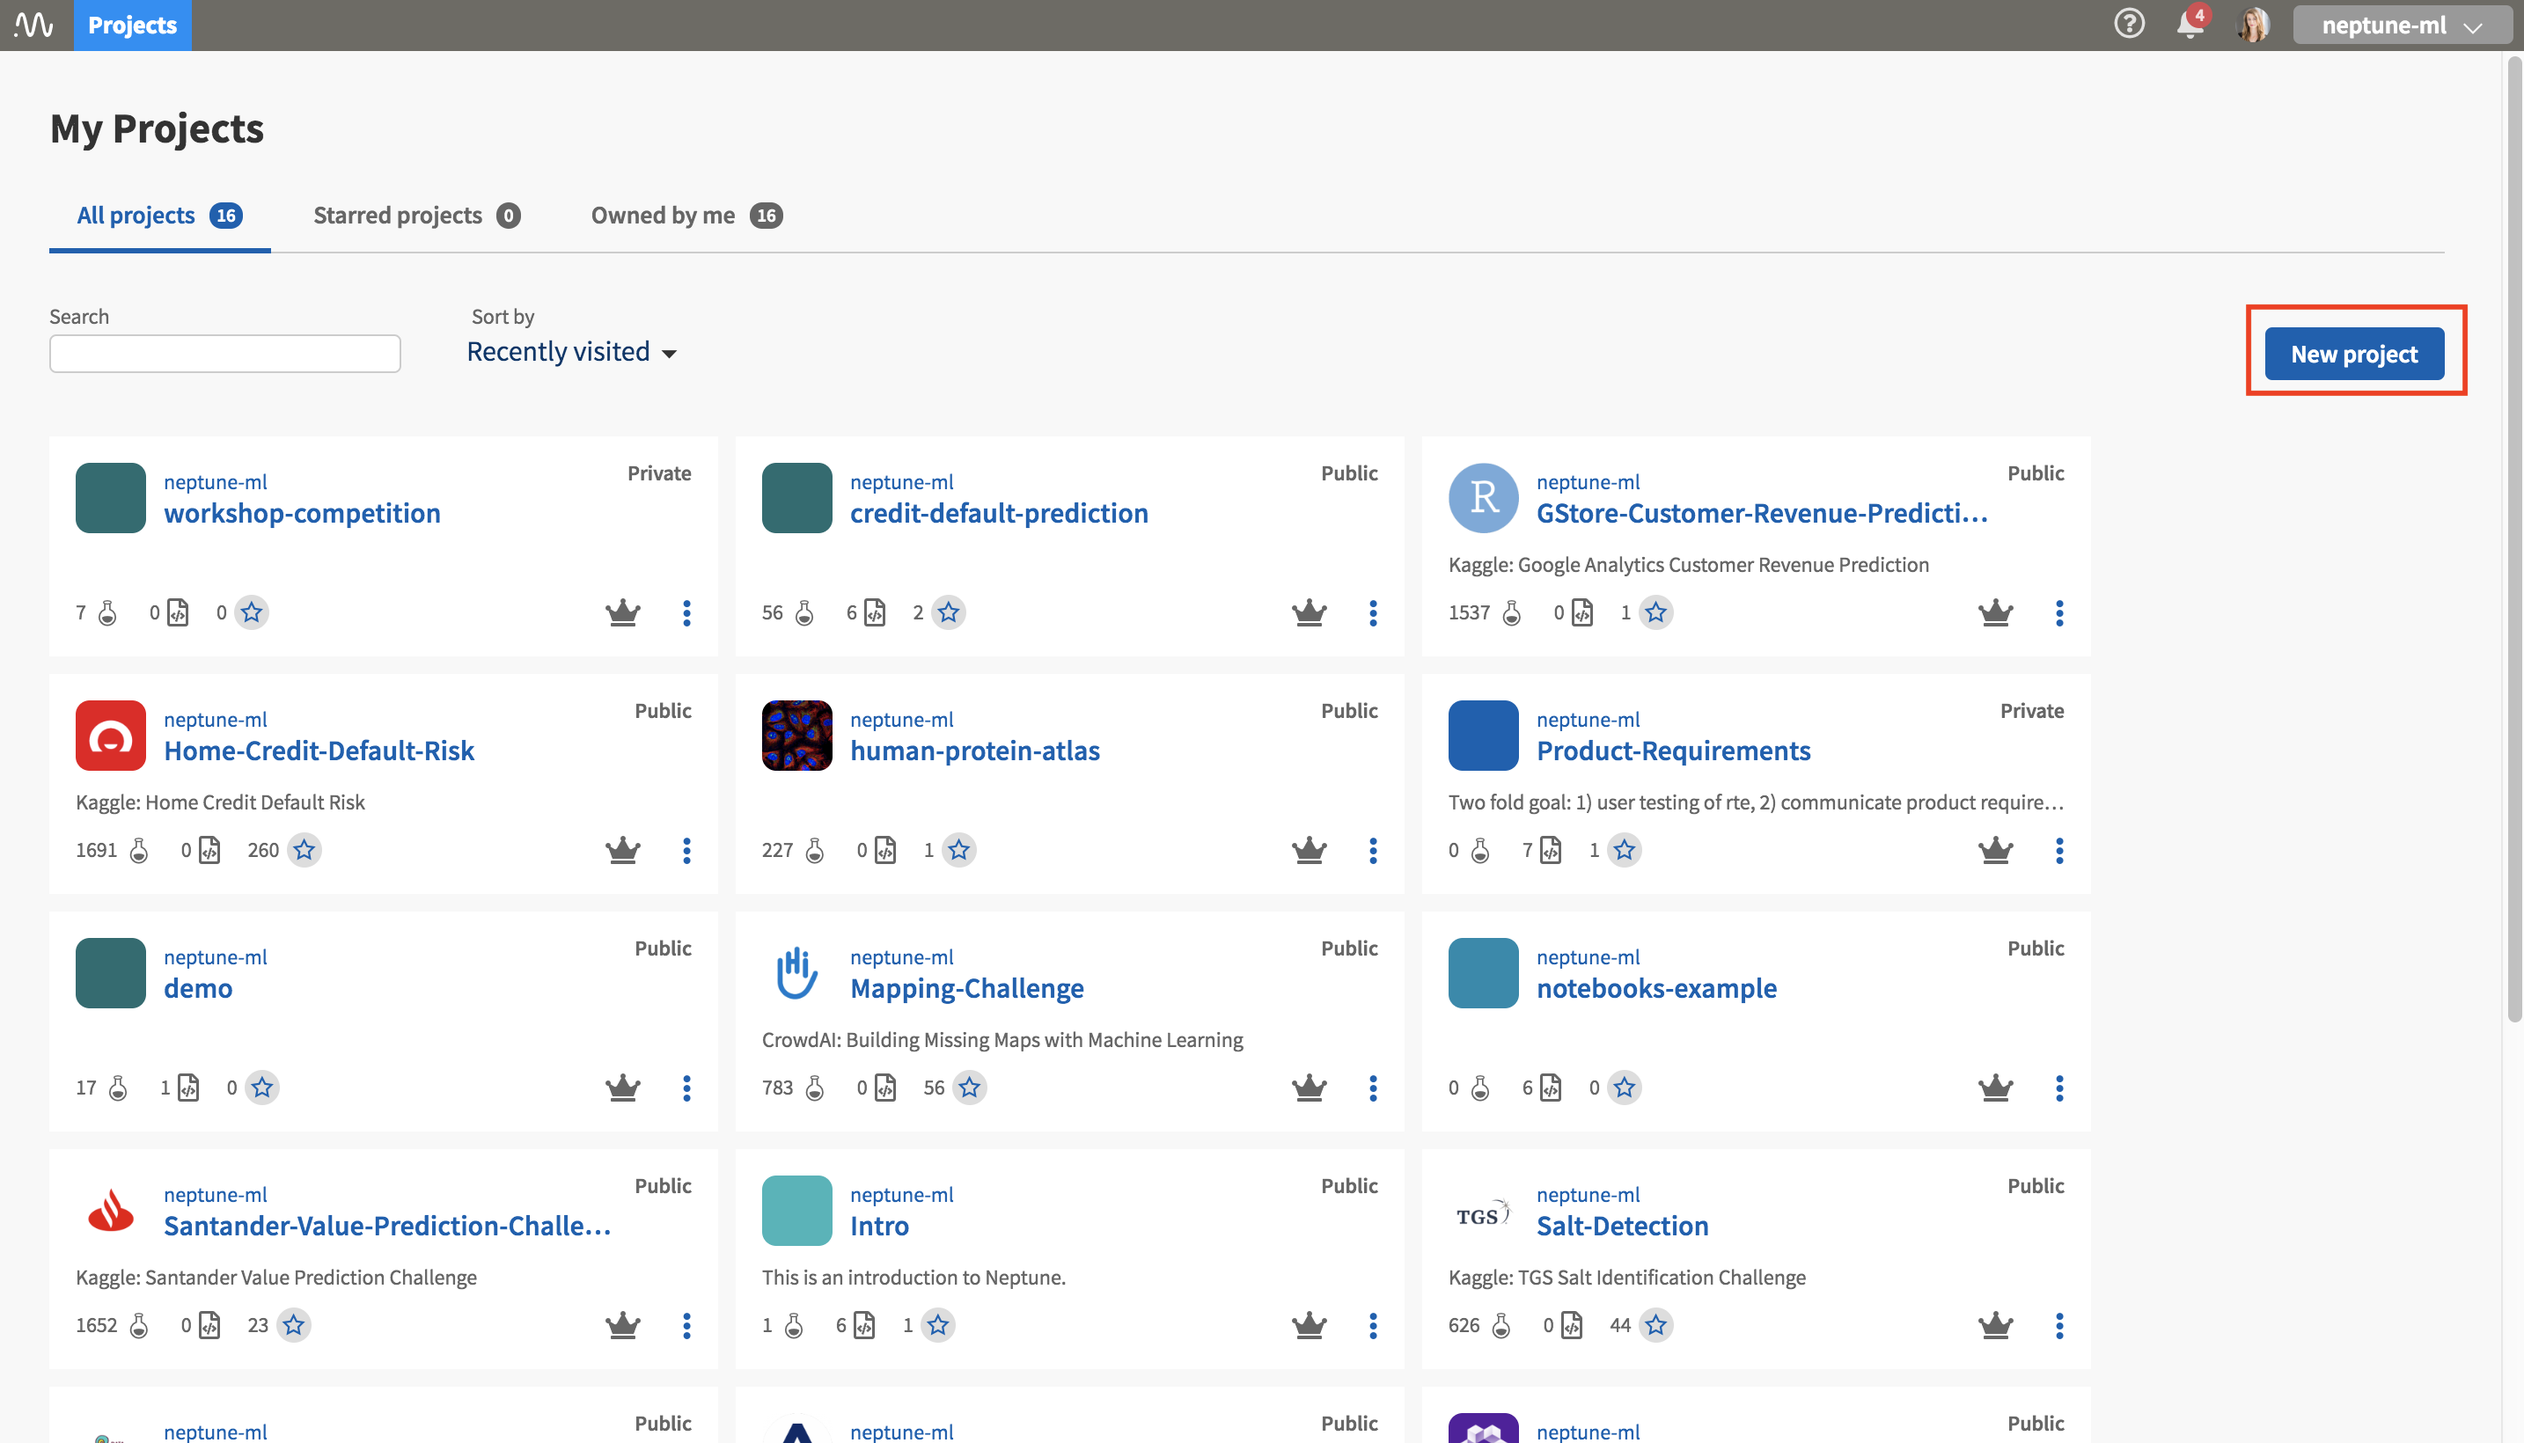
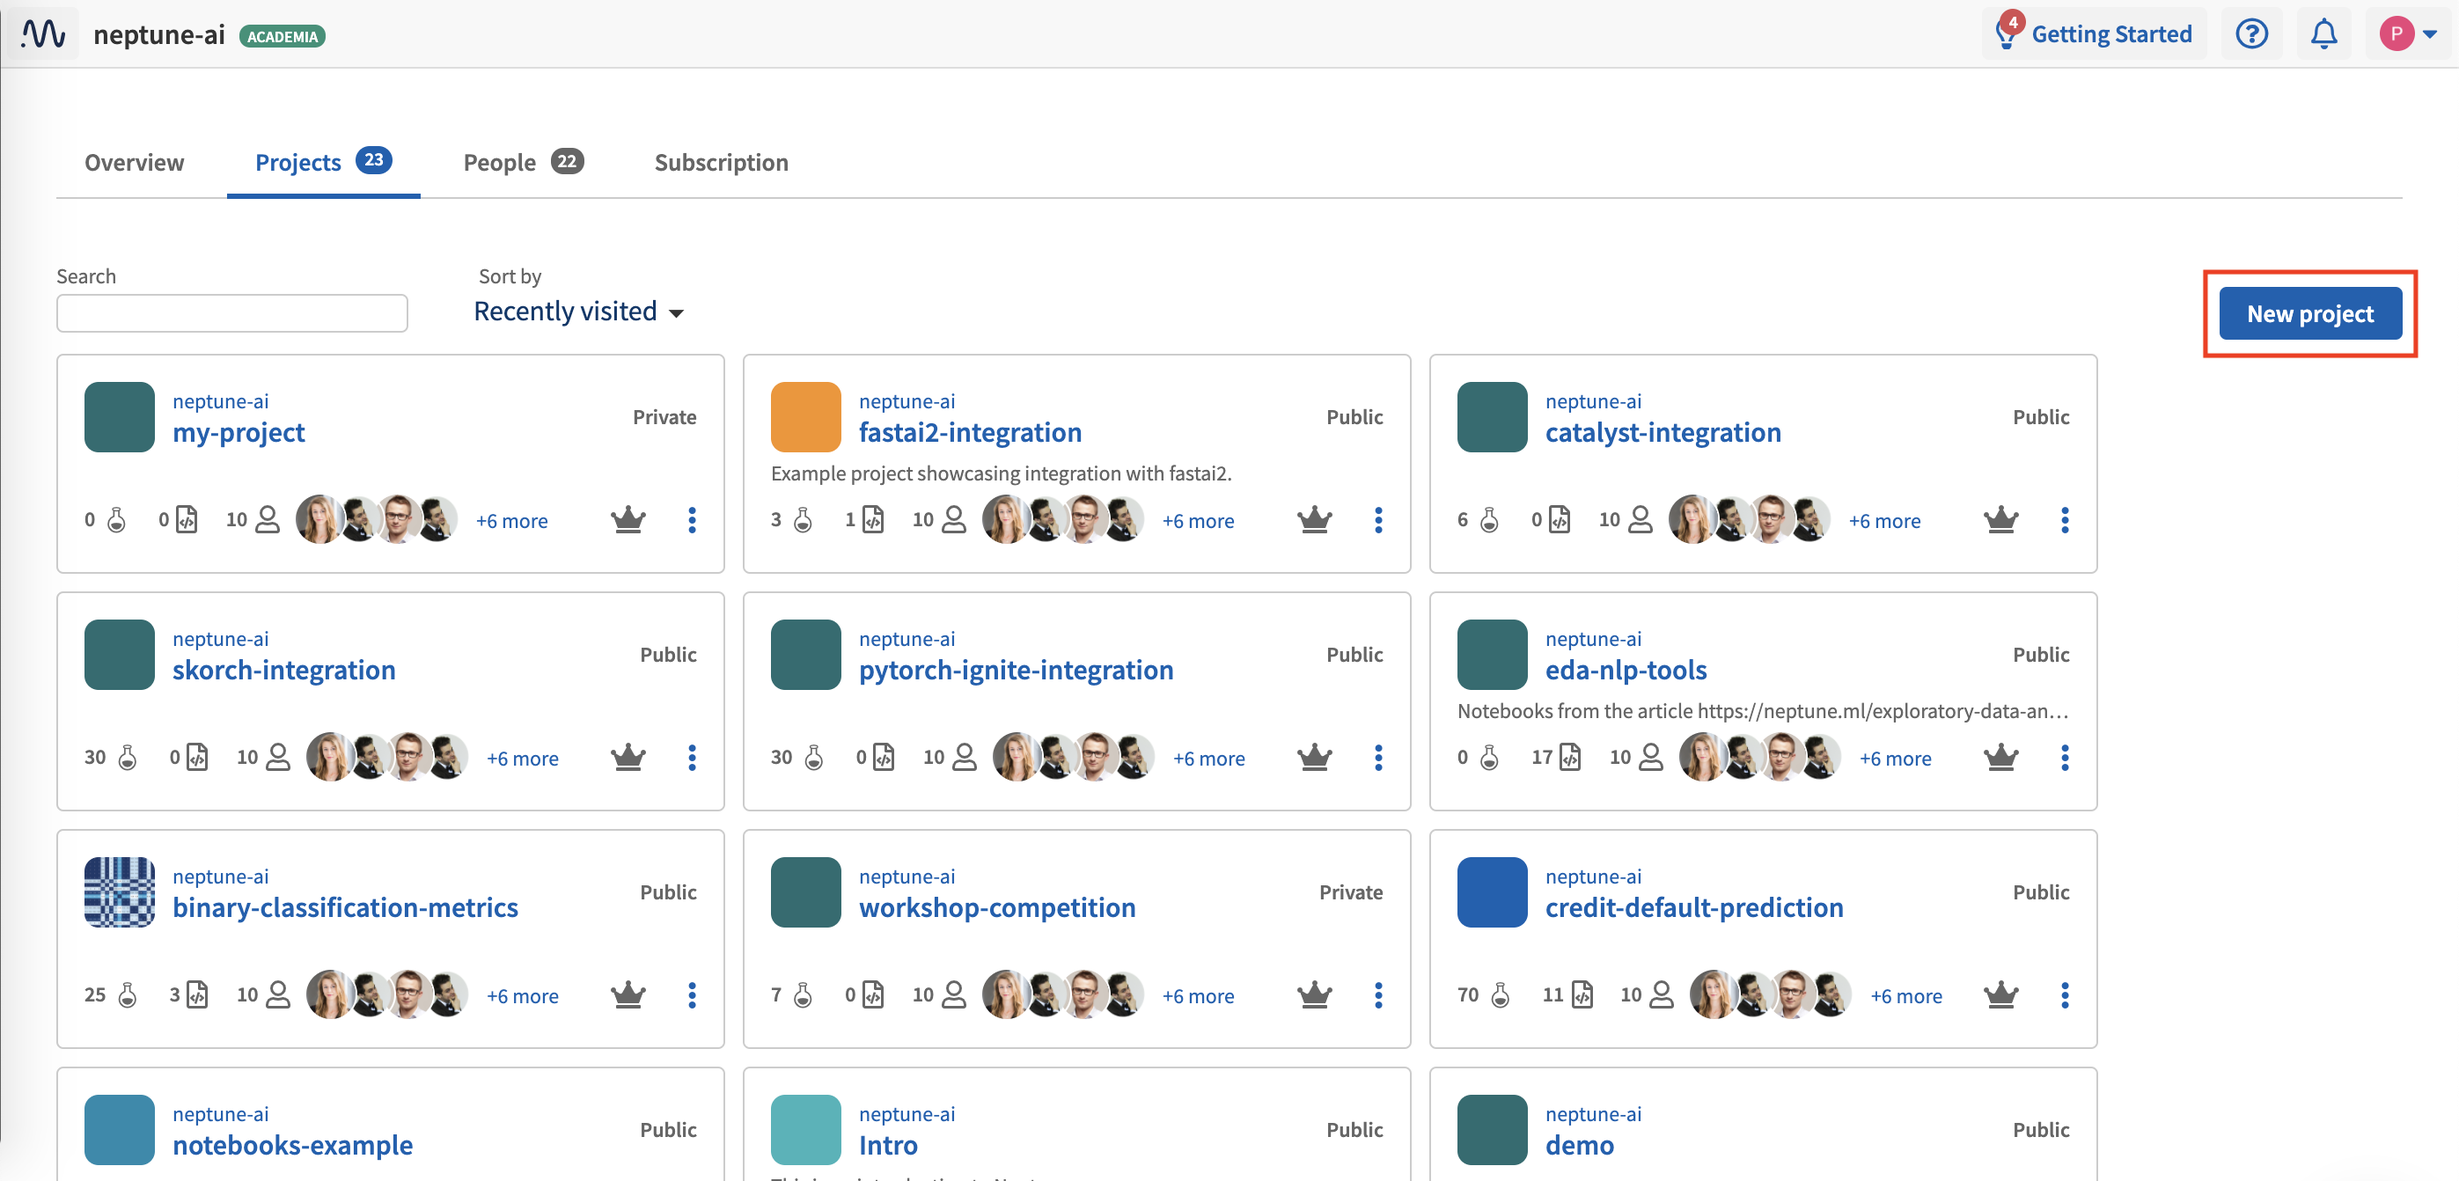
Updates images in team management

diff --git a/docs/learn-about-neptune/team-management.rst b/docs/learn-about-neptune/team-management.rst
@@ -63,12 +63,17 @@ The following table summarizes the permissions available for the workspace roles
       Creating and deleting projects,yes,no
 
 
-You can access workspace settings by clicking **Settings**.
+You can access workspace settings by clicking the workspace name on the top bar.
 
-.. figure:: ../_static/images/core-concepts/org-settings.png
-   :target: ../_static/images/core-concepts/org-settings.png
+.. figure:: ../_static/images/core-concepts/workspace-settings.png
+   :target: ../_static/images/core-concepts/workspace-settings.png
    :alt: workspace settings button
 
+Workspace settings can be viewed under the *Overview*, *Projects*, *People*, and *Subscription* tabs.
+
+.. figure:: ../_static/images/core-concepts/workspace-settings-tabs.png
+   :target: ../_static/images/core-concepts/workspace-settings-tabs.png
+   :alt: workspace settings tabs
 
 .. note::
 
@@ -112,8 +117,8 @@ Only people added to the project can see it. The project :ref:`Owner <core-conce
 
 Here is an example view, where the project Owner can manage project members:
 
-.. image:: ../_static/images/core-concepts/invite-to-project.png
-   :target: ../_static/images/core-concepts/invite-to-project.png
+.. image:: ../_static/images/how-to/team-management/invite-to-project.png
+   :target: ../_static/images/how-to/team-management/invite-to-project.pn
    :alt: Invite user to the project
 
 Public projects
@@ -138,22 +143,22 @@ Create a workspace
 ----------------------
 Neptune lets you create an :ref:`workspace <core-concepts_organization-types>`.
 
-1. Click the **Context Switcher** at the upper-right corner and click **Create new workspace**.
+1. Click the **Context Switcher** at the upper-right corner, then click **Switch workspace**, and finally click **Create new workspace**
 
-.. image:: ../_static/images/how-to/team-management/create-org-1.png
-   :target: ../_static/images/how-to/team-management/create-org-1.png
+.. image:: ../_static/images/how-to/team-management/create-workspace-1.png
+   :target: ../_static/images/how-to/team-management/create-workspace-1.png 
    :alt: create new workspace
 
 2. Type in a name and click **Create workspace**.
 
-.. image:: ../_static/images/how-to/team-management/create-org-2.png
-   :target: ../_static/images/how-to/team-management/create-org-2.png
+.. image:: ../_static/images/how-to/team-management/create-workspace-2.png
+   :target: ../_static/images/how-to/team-management/create-workspace-2.png
    :alt: type name for new workspace
 
 3. Once the workspace has been created, you can :ref:`invite people <invite-to-organization>` to your workspace.
 
-.. image:: ../_static/images/how-to/team-management/create-org-3.png
-   :target: ../_static/images/how-to/team-management/create-org-3.png
+.. image:: ../_static/images/how-to/team-management/create-workspace-3.png
+   :target: ../_static/images/how-to/team-management/create-workspace-3.png
    :alt: type name for new workspace
 
 .. _invite-to-organization:
@@ -169,16 +174,16 @@ After you have :ref:`created a workspace <how-to_team-management_create-organiza
     - In case of an individual workspace, users are explicitly invited and have to accept the invitation before they are added. Those users can leave the Projects that they joined at any time.
     - Only workspace members can be added to Projects in team workspaces.
 
-1. Go to **Context Switcher** at the upper-right corner and click the **Settings** button for the relevant workspace.
+1. Click the name of the current workspace on the top bar.
 
-.. image:: ../_static/images/how-to/team-management/create-org-1.png
-   :target: ../_static/images/how-to/team-management/create-org-1.png
+.. figure:: ../_static/images/core-concepts/workspace-settings.png
+   :target: ../_static/images/core-concepts/workspace-settings.png
    :alt: Go to settings to invite user to workspace
 
 2. In the panel that appears, click the **People** tab.
 
-.. image:: ../_static/images/how-to/team-management/invite-to-org-2.png
-   :target: ../_static/images/how-to/team-management/invite-to-org-2.png
+.. image:: ../_static/images/how-to/team-management/invite-to-workspace-2.png
+   :target: ../_static/images/how-to/team-management/invite-to-workspace-2.png
    :alt: Invite user to workspace
 
 - The tab displays the list of users who already belong to the workspace or whose membership is pending.
@@ -229,8 +234,8 @@ Add Users to a Project
 
 3. Set a role and click **Invite**.
 
-.. image:: ../_static/images/how-to/team-management/add-user-1.png
-   :target: ../_static/images/how-to/team-management/add-user-1.png
+.. image:: ../_static/images/how-to/team-management/invite-to-project.png
+   :target: ../_static/images/how-to/team-management/invite-to-project.png
    :alt: Add users to project
 
 
